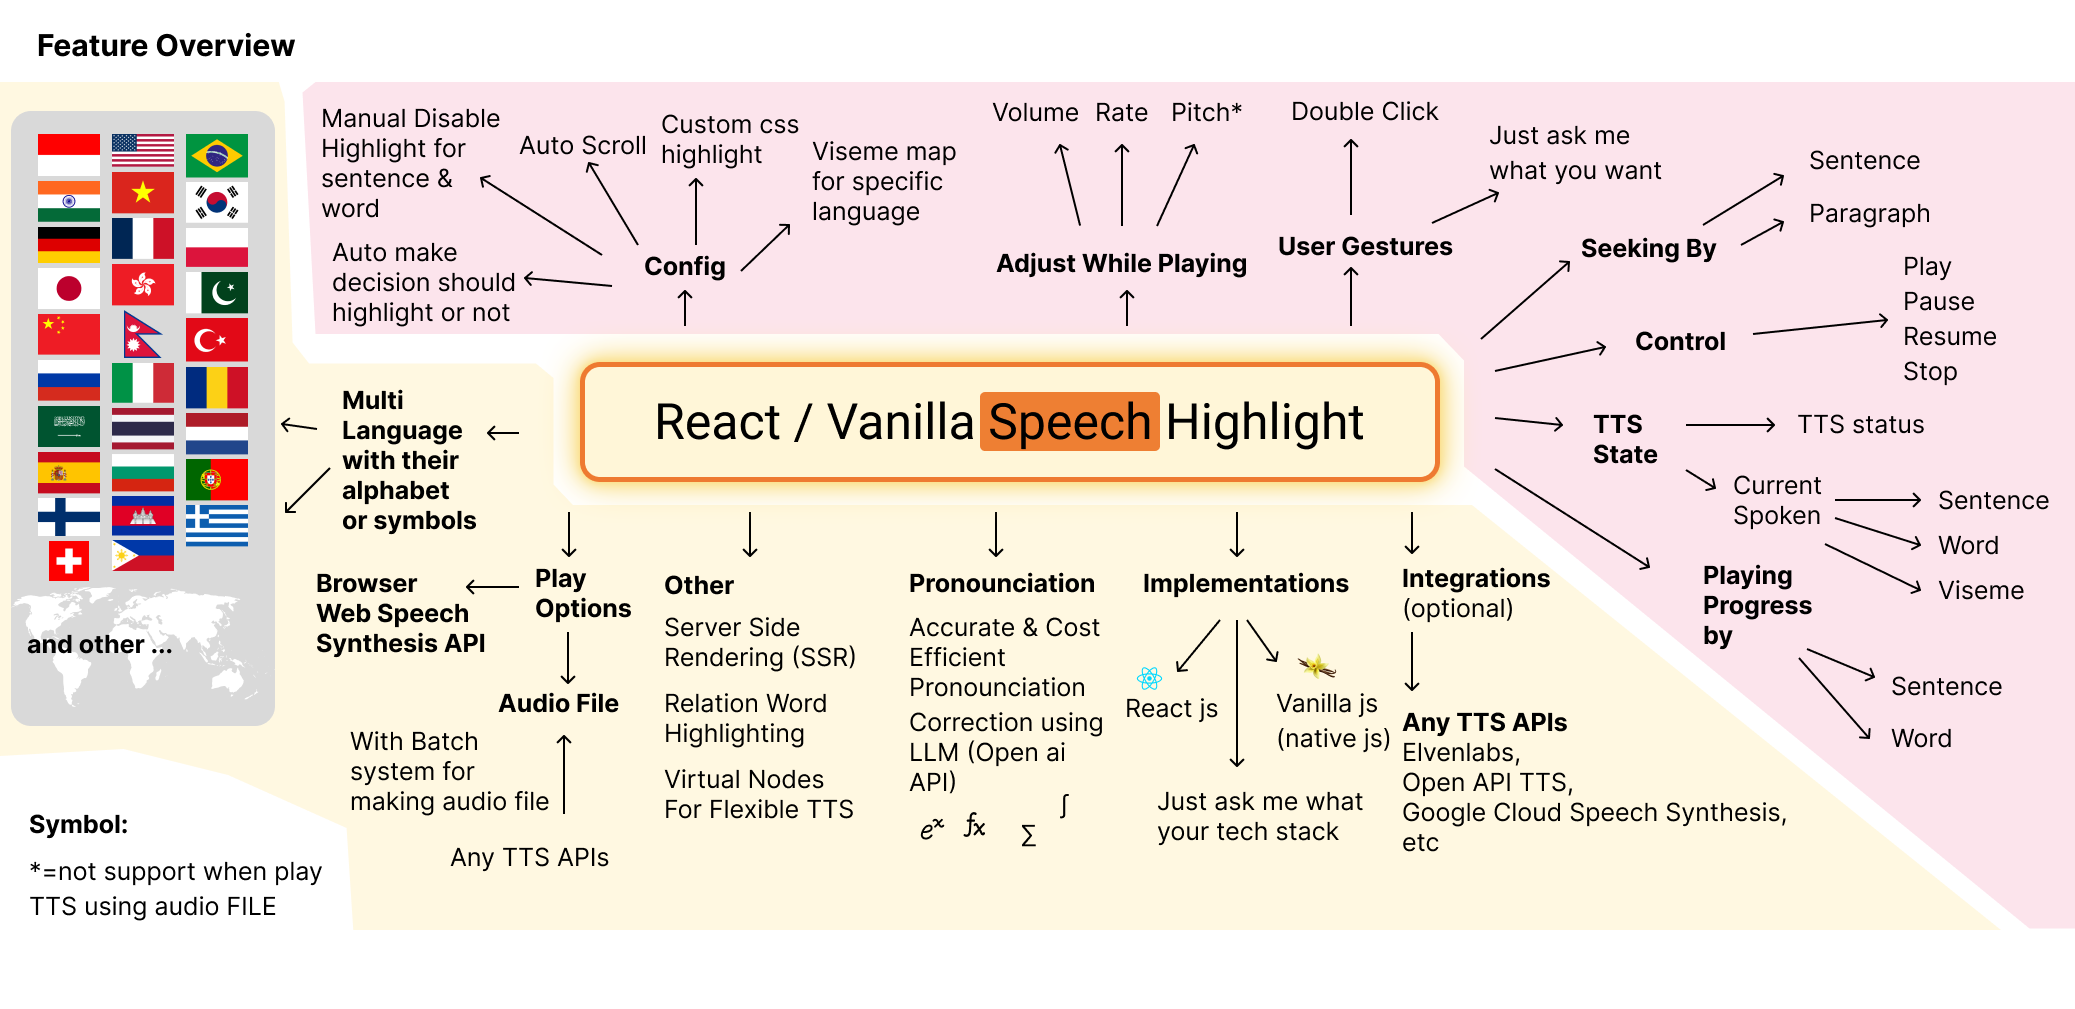
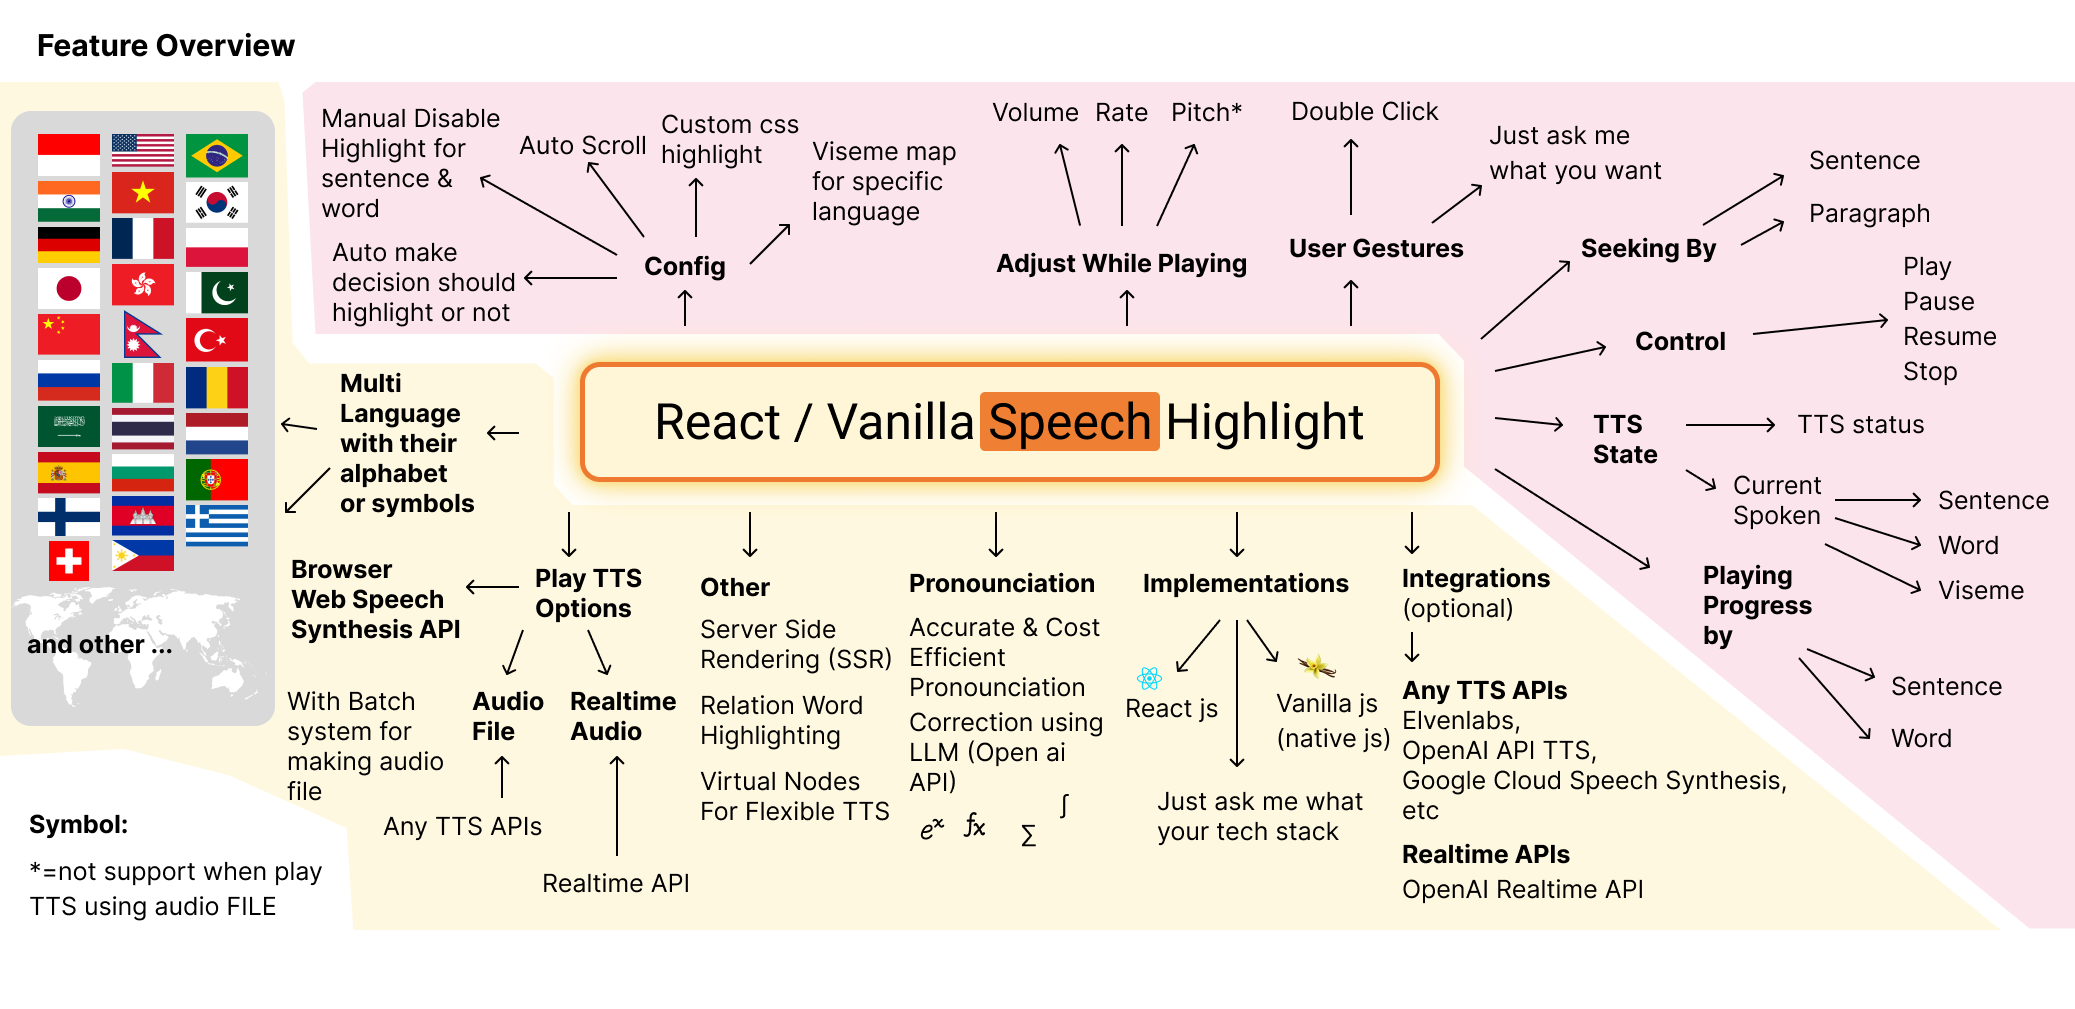
Realtime Communication With Highlighted Text

diff --git a/README.md b/README.md
@@ -168,6 +168,14 @@ Italian word `bella` have meaning in english `beautiful`
 
 Go to [this video demo page](https://react-speech-highlight.vercel.app/video).
 
+#### Realtime Communication With Highlighted Text
+
+Task that the audio is feed to client side in real time like you are on a phone call, theres no audio file behind it. 
+
+Recently open ai made [realtime api](https://platform.openai.com/docs/guides/realtime) it use [Web RTC (Web Real-Time Communication)](https://developer.mozilla.org/en-US/docs/Web/API/WebRTC_API) so you can like have a phone call with AI.
+
+Goto [realtime communication demo](https://react-speech-highlight.vercel.app/#example-realtime).
+
 #### Your use case here
 
 ![Covers Everyone’s Needs](./img/adaptable.png)
@@ -203,7 +211,7 @@ Just ask me what you want to make, the package architecture is scalable to make 
 - [x] Docs integration text-to-speech with [Eleven Labs](https://try.elevenlabs.io/29se7bx2zgw1) API [see the demo web](https://react-speech-highlight.vercel.app)
 - [x] Integration with [React GPT Web Guide](https://github.com/albirrkarim/react-gpt-web-guide-docs) Package.
 - [x] Multi character support for non latin alphabet ( chinese (你好),
-      russian (Привет), japanese (こんにちは), korean (안녕하세요), etc )
+      russian (Привет), japanese (こんにちは), korean (안녕하세요), etc ). [see](https://react-speech-highlight.vercel.app/#non-latin)
 - [x] Add [language detection using LLM api](API.md#2-getlangforthistext)
 - [x] Add [seeking by sentence or paragraph](API.md#2b-interface), [reading progress by word or sentence](API.md#spokenhl), [Adjust config while TTS playing.](API.md#controlhl), [Custom Abbreviation Function](API.md#1-tts-marker-markthewords)
 - [x] Realiability: TTS that can't die, Test on any platform, Code Linting using eslint, Using [Typescript](https://www.typescriptlang.org/), [Tested (Prompt Test, Unit Test, Engine Test)](TEST.md)
